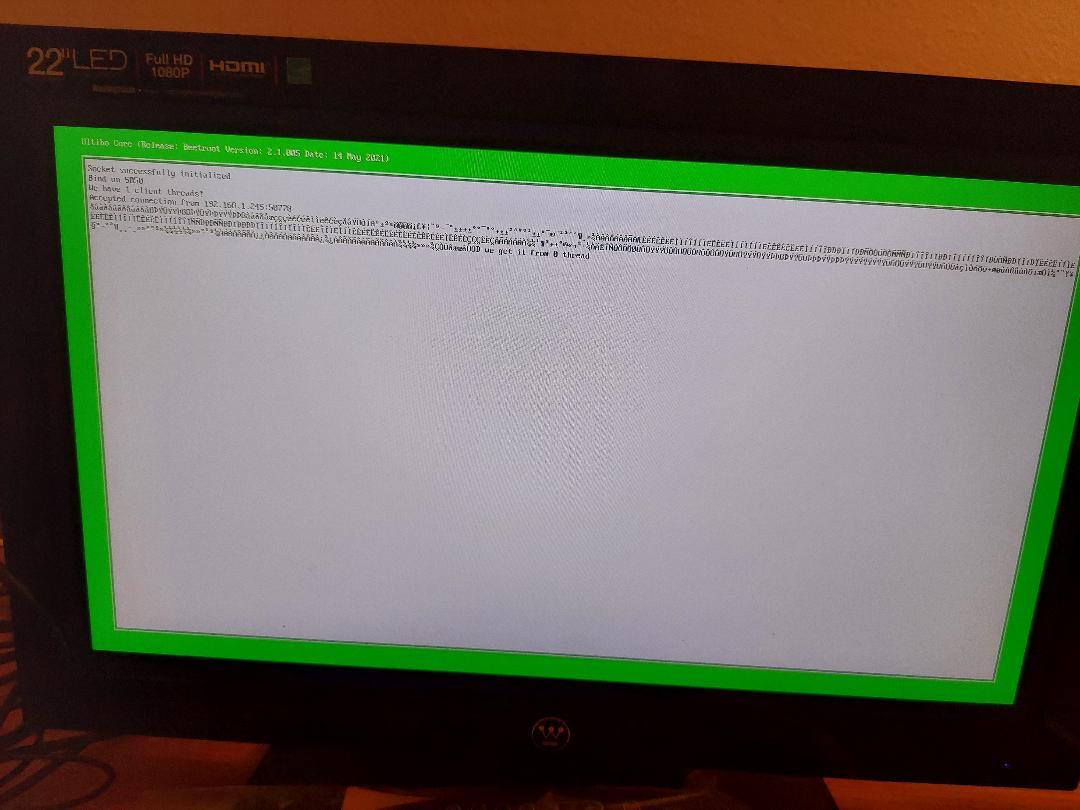
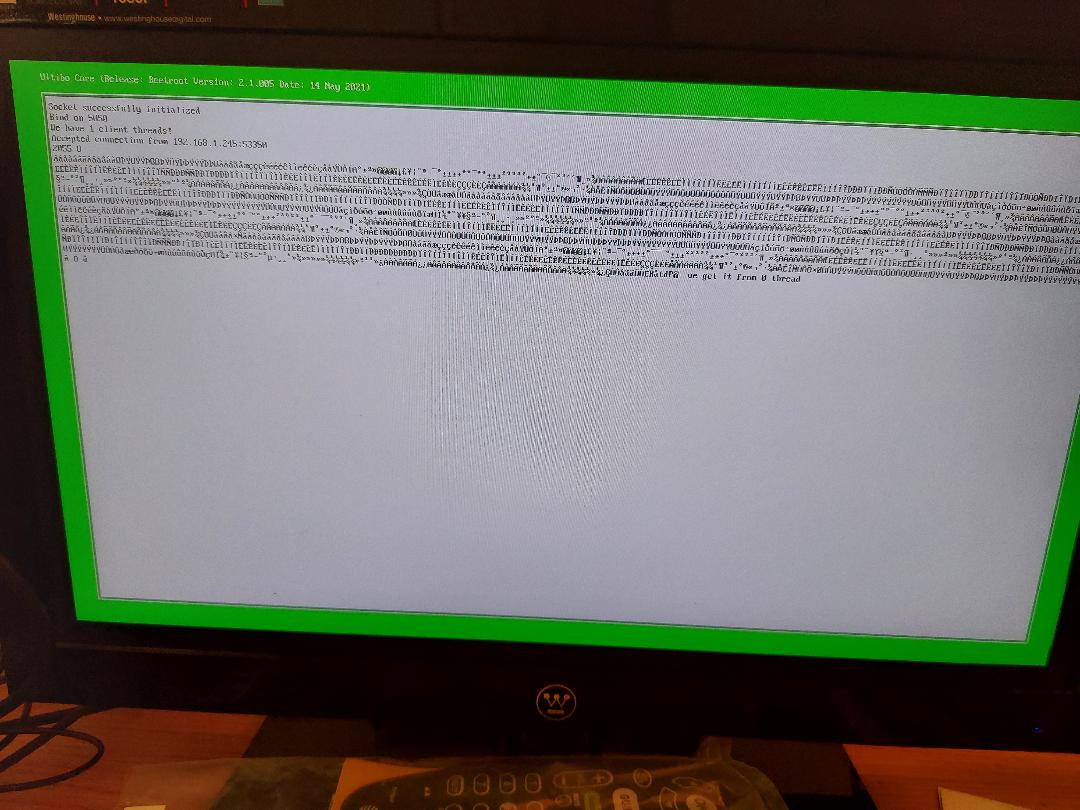
now 2048 block.

diff --git a/socket_tests/pgmpush/client.c b/socket_tests/pgmpush/client.c
@@ -5,13 +5,16 @@
 #include <stdlib.h>
 
 void rb_block(unsigned char *in, int *pstart, int *pend, unsigned char *out) {
-    int i,j;
-    //offset = *pstart*512;
+    int i,j,index;
+    
     printf("rb_block %d  %d 0x%x \n",*pstart,*pend,in);
+    index = 0;
     for(j=*pstart;j<*pend;j++) {
+	
 	for(i=0;i<512;i++) {
-	    out[i] = in[i];
-	    printf("%d %d %d   \n",j, i,in[i],out[i]);
+	    out[index] = in[index];
+	    printf("%d %d %d %d  %d \n",j, i,in[index],out[index],(index));
+	    index += 1;
 	}
     }
     
@@ -31,7 +34,7 @@ int main(void)
 {
     int socket_desc,flag=1,userflg,msg;
     struct sockaddr_in server_addr;
-    unsigned char server_message[2047], client_message[2047];
+    unsigned char server_message[2047], client_message[2048];
     char *inp1, *inp2, *inp3,*out1;
     unsigned char *inbuf, *inbufsav,*pclient_message;
 
@@ -118,6 +121,8 @@ int main(void)
 	    */
         }
         // Send the message to server:
+	printf("The length of client_message %d\n",strlen(client_message));
+	printf("%s\n",client_message);
         if(send(socket_desc, client_message, strlen(client_message), 0) < 0){
             printf("Unable to send message\n");
             return -1;
